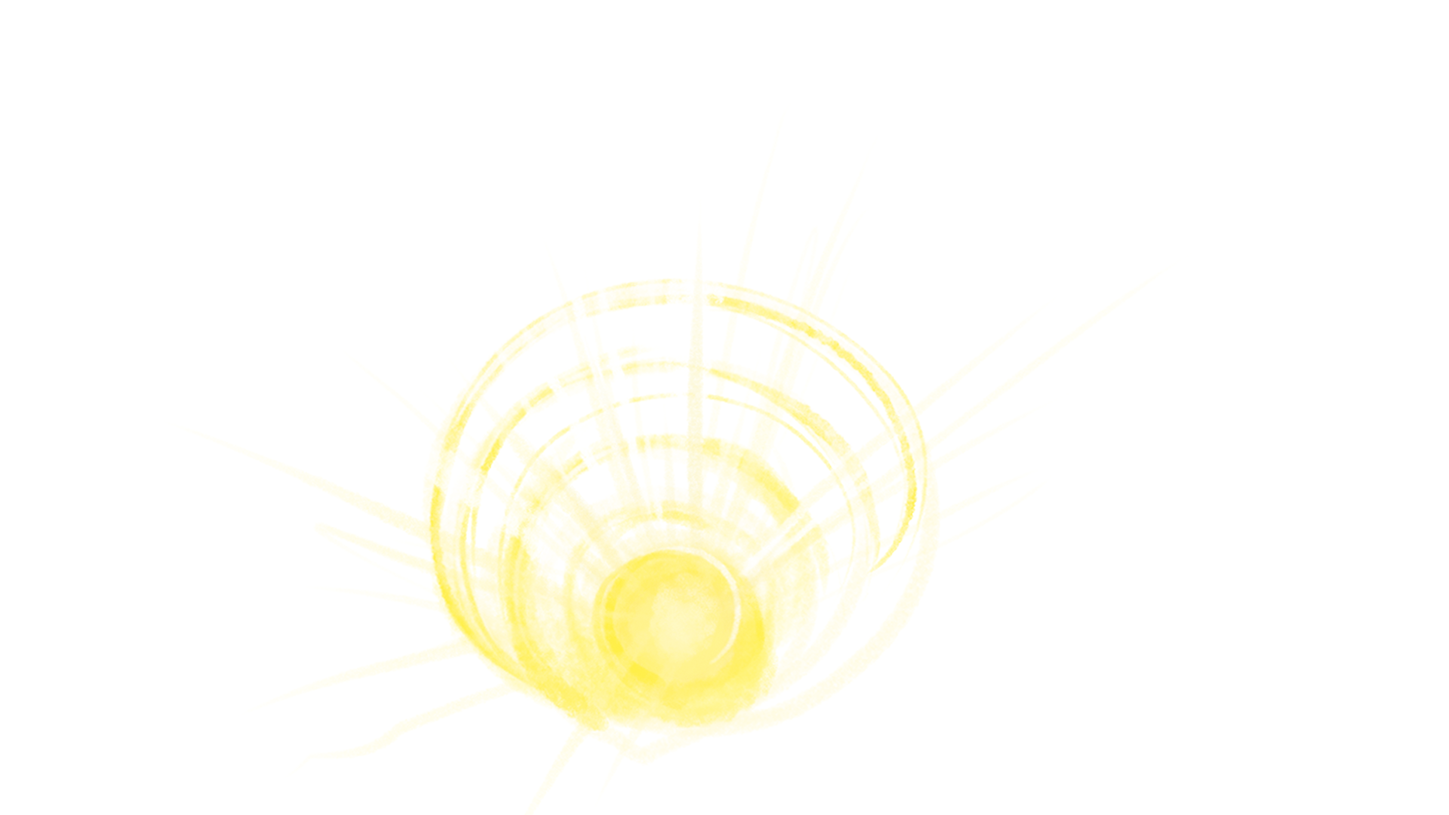
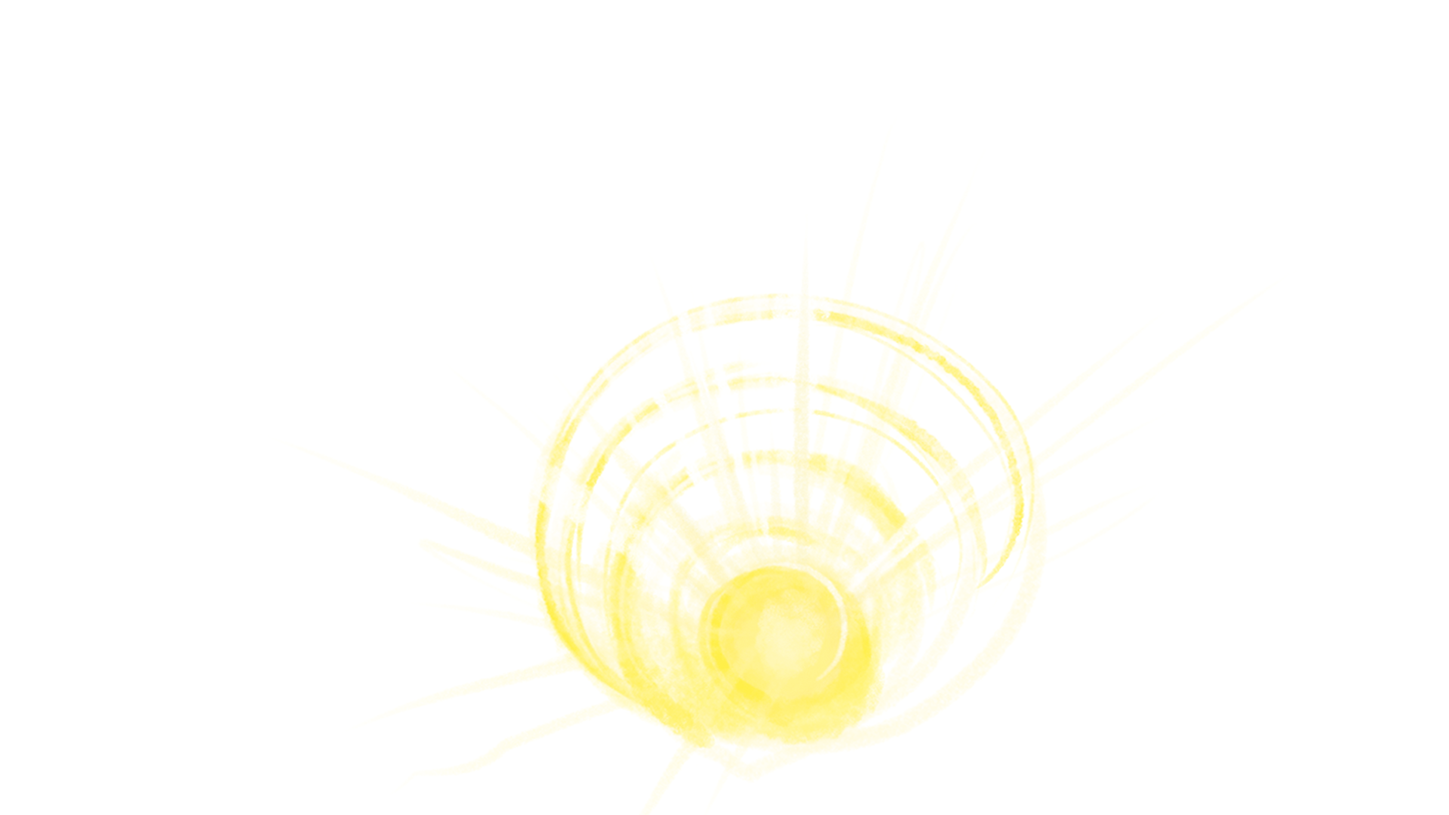
Add files via upload

Changed region(s): [[0.25, 0.3361, 0.7188, 0.9472]]

diff --git a/css/style.min.css b/css/style.min.css
@@ -1,1 +1,1 @@
-:root{--text-color:hsl(229, 38%, 57%);--heading-color:hsl(229, 38%, 40%)}*{-webkit-box-sizing:border-box;box-sizing:border-box;padding:0;margin:0;font-family:Karla;font-style:normal;border:none}body{-webkit-user-select:none;-moz-user-select:none;-ms-user-select:none;user-select:none}input{width:0;background:0 0}input:focus{outline:0}ul{list-style:none}button{background:0 0}h1,h2,h3,h4,h5,h6{font-weight:400}.slick-list{overflow:hidden;width:100%;height:100%}.slick-track{display:-webkit-box;display:-ms-flexbox;display:flex}.weather__search{margin:0 0 36px 0}.search__container{position:relative;max-width:1180px;margin:0 auto;padding:0 10px;z-index:100}.search__container .search__form{width:100%;min-height:67px;display:-webkit-box;display:-ms-flexbox;display:flex}.search__container::before{content:"";background:url(../img/search/loupe.svg) 0 0/100% no-repeat;position:absolute;width:2rem;min-height:67px;top:16px;left:45px;z-index:1000}.search__container .search__bar{background:-o-radial-gradient(100% 100%,177.01% 109.82%,hsla(227deg,63%,72%,.5) 0,rgba(194,193,243,.55) 51.46%,rgba(229,236,249,.19) 100%);background:radial-gradient(177.01% 109.82% at 100% 100%,hsla(227deg,63%,72%,.5) 0,rgba(194,193,243,.55) 51.46%,rgba(229,236,249,.19) 100%);-webkit-backdrop-filter:blur(10px);backdrop-filter:blur(10px);-webkit-box-flex:0;-ms-flex:0 1 980px;flex:0 1 980px;border-radius:20px;padding:0 20px 0 83px;font-size:2rem;font-weight:600;color:var(--heading-color)}.search__container .search__submit{background:-o-radial-gradient(100% 100%,177.01% 109.82%,hsla(227deg,63%,72%,.5) 0,rgba(194,193,243,.55) 51.46%,rgba(229,236,249,.19) 100%);background:radial-gradient(177.01% 109.82% at 100% 100%,hsla(227deg,63%,72%,.5) 0,rgba(194,193,243,.55) 51.46%,rgba(229,236,249,.19) 100%);-webkit-backdrop-filter:blur(5px);backdrop-filter:blur(5px);margin-left:45px;position:relative;border-radius:20px;z-index:100}.search__container .search__submit input{color:var(--text-color);width:100%;font-weight:600;font-size:42px;text-align:center;padding:9px}.weather__cards{height:100%}.cards__container{position:relative;max-width:1180px;height:100%;margin:0 auto;z-index:200}.cards__container .slick-list{padding-top:10px}.cards__container .cards__group{padding:0 10px;display:-webkit-box;display:-ms-flexbox;display:flex;-webkit-box-align:center;-ms-flex-align:center;align-items:center;-webkit-box-pack:center;-ms-flex-pack:center;justify-content:center}.cards__container .cards__group .card:last-child{margin:0}.card{position:relative;-webkit-transition:all .4s cubic-bezier(.46,.03,.52,.96);-o-transition:all .4s cubic-bezier(.46,.03,.52,.96);transition:all .4s cubic-bezier(.46,.03,.52,.96);background:-o-radial-gradient(100% 100%,177.01% 109.82%,hsla(227deg,63%,72%,.5) 0,rgba(194,193,243,.55) 51.46%,rgba(229,236,249,.19) 100%);background:radial-gradient(177.01% 109.82% at 100% 100%,hsla(227deg,63%,72%,.5) 0,rgba(194,193,243,.55) 51.46%,rgba(229,236,249,.19) 100%);-webkit-backdrop-filter:blur(10px);backdrop-filter:blur(10px);height:70vh;-webkit-box-flex:0;-ms-flex:0 1 100%;flex:0 1 100%;border-radius:20px;overflow:auto;margin:0 48px 0 0;color:var(--text-color);font-weight:500;-ms-overflow-style:none;scrollbar-width:none}.card ::-webkit-scrollbar{display:none}.card h3{font-weight:600}.card:hover{-webkit-transform:scale(1.025);-ms-transform:scale(1.025);transform:scale(1.025)}.card__head{display:-webkit-box;display:-ms-flexbox;display:flex;padding:20px 20px 0 20px;width:100%;-webkit-box-orient:vertical;-webkit-box-direction:normal;-ms-flex-direction:column;flex-direction:column}.card__heading{display:inline;width:100%;margin-bottom:20px;color:var(--heading-color);font-size:calc(11px + 1.3194444444vw)}.card__weather-main{display:-webkit-box;display:-ms-flexbox;display:flex}.weather__inf{-webkit-box-flex:0;-ms-flex:0 0 100px;flex:0 0 100px;margin-right:30px;font-weight:500;font-size:1rem;min-height:150px}.weather__inf .weather__text,.weather__inf .weather__time{text-align:center}.weather__inf .weather__icon{position:relative;margin:0 auto;width:64px;height:64px}.weather__inf .weather__icon .weather__temp{text-align:right;font-size:1.5rem;font-weight:600;position:absolute;bottom:0;right:0}.weather__inf .weather__icon img{position:absolute;width:100%;height:100%}.card__bottom{overflow:hidden;padding:0 20px 20px 20px}.card__weather-additional>div:not(div:last-child){margin-bottom:40px}.card__weather-additional .details__heading{color:var(--heading-color);margin-bottom:5px}.card__weather-additional .details__inf{display:-webkit-box;display:-ms-flexbox;display:flex;-webkit-box-orient:vertical;-webkit-box-direction:normal;-ms-flex-direction:column;flex-direction:column}.card__weather-additional .details__inf-item{display:-webkit-box;display:-ms-flexbox;display:flex}.card__weather-additional .details__inf-item li:first-child{font-weight:300}.card__weather-additional .details__inf-item li{-webkit-box-flex:0;-ms-flex:0 0 50%;flex:0 0 50%}.card__weather-additional .precipitation__heading{color:var(--heading-color);margin-bottom:5px}.card__weather-additional .precipitation__inf-item{-webkit-box-flex:0;-ms-flex:0 0 100px;flex:0 0 100px;text-align:center}.card__weather-additional .precipitation__icon{margin:5px auto;height:30px}.card__weather-additional .wind__inf-item{-webkit-box-flex:0;-ms-flex:0 0 100px;flex:0 0 100px;text-align:center}.card__weather-additional .wind__heading{color:var(--heading-color);margin-bottom:5px}.card__weather-additional .wind__icon{margin:5px auto;height:30px}.card__weather-additional .wind__text p:last-child{font-weight:600}.cards__container .active{-webkit-transition:all .4s cubic-bezier(.46,.03,.52,.96);-o-transition:all .4s cubic-bezier(.46,.03,.52,.96);transition:all .4s cubic-bezier(.46,.03,.52,.96);margin:0}.cards__container .unactive{-webkit-transition:all .4s cubic-bezier(.46,.03,.52,.96);-o-transition:all .4s cubic-bezier(.46,.03,.52,.96);transition:all .4s cubic-bezier(.46,.03,.52,.96);visibility:hidden;opacity:0;-webkit-box-flex:0;-ms-flex:0 1 0px;flex:0 1 0;margin:0}@-webkit-keyframes slide-app{0%{-webkit-transform:translateY(100%);transform:translateY(100%);visibility:hidden;opacity:0}100%{-webkit-transform:translateY(0);transform:translateY(0);visibility:visible;opacity:1}}@keyframes slide-app{0%{-webkit-transform:translateY(100%);transform:translateY(100%);visibility:hidden;opacity:0}100%{-webkit-transform:translateY(0);transform:translateY(0);visibility:visible;opacity:1}}.wrapper{overflow:hidden;max-width:100%;min-height:200vh;position:relative}.screen{position:absolute;width:100%;height:100vh}.screen img{pointer-events:none}.first__screen{top:0;left:0}.second__screen{bottom:0;left:0}.screen__background{position:absolute;left:0;bottom:0;width:100%;height:100%}.first__screen-img-container img{position:absolute;left:0;bottom:0;width:100%;min-height:540px;-o-object-fit:cover;object-fit:cover}.second__screen-img-container img{position:absolute;left:0;top:0;width:100%;min-height:540px;-o-object-fit:cover;object-fit:cover}.screen__background{z-index:0}.first__screen .screen__sun{left:90px;bottom:-80px;z-index:7}.first__screen .screen__fifth-plan-cloud{z-index:5;-webkit-animation:shake1 4s ease-in-out infinite;animation:shake1 4s ease-in-out infinite}.first__screen .screen__fourth-plan-cloud{z-index:10;-webkit-animation:shake1 6s linear infinite;animation:shake1 6s linear infinite}.first__screen .screen__third-plan-cloud{z-index:15;-webkit-animation:shake1 4s ease-in-out infinite;animation:shake1 4s ease-in-out infinite}.first__screen .screen__second-plan-cloud{z-index:20;-webkit-animation:shake2 6s linear infinite;animation:shake2 6s linear infinite}.first__screen .screen__first-plan-cloud{z-index:25;-webkit-animation:shake2 4s ease-in-out infinite;animation:shake2 4s ease-in-out infinite}.second__screen .screen__fifth-plan-cloud{z-index:5;-webkit-animation:shake3 4s ease-in-out infinite;animation:shake3 4s ease-in-out infinite}.second__screen .screen__fourth-plan-cloud{z-index:10;-webkit-animation:shake3 6s linear infinite;animation:shake3 6s linear infinite}.second__screen .screen__third-plan-cloud{z-index:15;-webkit-animation:shake3 4s ease-in-out infinite;animation:shake3 4s ease-in-out infinite}.second__screen .screen__second-plan-cloud{z-index:20;-webkit-animation:shake4 6s linear infinite;animation:shake4 6s linear infinite}.second__screen .screen__first-plan-cloud{z-index:25;-webkit-animation:shake4 4s ease-in-out infinite;animation:shake4 4s ease-in-out infinite}.second__screen .condition img{position:absolute;pointer-events:none;width:100%;height:100%;-o-object-fit:cover;object-fit:cover}.second__screen .environment img{position:absolute;pointer-events:none;width:100%;height:100%;-o-object-fit:cover;object-fit:cover}@-webkit-keyframes shake1{0%,100%{-webkit-transform:translate(0,-5px);transform:translate(0,-5px)}50%{-webkit-transform:translate(-5px,5px) scaleY(104%);transform:translate(-5px,5px) scaleY(104%)}}@keyframes shake1{0%,100%{-webkit-transform:translate(0,-5px);transform:translate(0,-5px)}50%{-webkit-transform:translate(-5px,5px) scaleY(104%);transform:translate(-5px,5px) scaleY(104%)}}@-webkit-keyframes shake2{0%,100%{-webkit-transform:translate(0,-5px);transform:translate(0,-5px)}50%{-webkit-transform:translate(5px,5px) scaleY(104%);transform:translate(5px,5px) scaleY(104%)}}@keyframes shake2{0%,100%{-webkit-transform:translate(0,-5px);transform:translate(0,-5px)}50%{-webkit-transform:translate(5px,5px) scaleY(104%);transform:translate(5px,5px) scaleY(104%)}}@-webkit-keyframes shake3{0%,100%{-webkit-transform:translate(0,-5px);transform:translate(0,-5px)}50%{-webkit-transform:translate(-5px,5px) scaleY(96%);transform:translate(-5px,5px) scaleY(96%)}}@keyframes shake3{0%,100%{-webkit-transform:translate(0,-5px);transform:translate(0,-5px)}50%{-webkit-transform:translate(-5px,5px) scaleY(96%);transform:translate(-5px,5px) scaleY(96%)}}@-webkit-keyframes shake4{0%,100%{-webkit-transform:translate(0,-5px);transform:translate(0,-5px)}50%{-webkit-transform:translate(5px,5px) scaleY(96%);transform:translate(5px,5px) scaleY(96%)}}@keyframes shake4{0%,100%{-webkit-transform:translate(0,-5px);transform:translate(0,-5px)}50%{-webkit-transform:translate(5px,5px) scaleY(96%);transform:translate(5px,5px) scaleY(96%)}}.first__screen .screen-weather{position:absolute;display:-webkit-box;display:-ms-flexbox;display:flex;width:100%;-webkit-box-pack:justify;-ms-flex-pack:justify;justify-content:space-between;-webkit-box-align:baseline;-ms-flex-align:baseline;align-items:baseline;color:hsl(229deg,38%,57%);padding-left:calc(10px + 27.2 * (100vw - 320px)/ 1440);padding-right:calc(10px + 27.2 * (100vw - 320px)/ 1440);padding-top:calc(20px + 34 * (100vw - 320px)/ 1440);top:0;right:0;font-weight:500;z-index:24;text-align:left}.first__screen .weather__place{padding-right:40px}.first__screen .weather__place p:first-child{color:hsl(229deg,38%,40%);font-size:calc(24px + 3.4722222222vw)}.first__screen .weather__place p:last-child{font-size:calc(20px + 1.3888888889vw)}.first__screen .weather__inf p:first-child{color:hsl(229deg,38%,40%);line-height:calc(80px + 2.7777777778vw);font-size:calc(70px + 4.8611111111vw)}.first__screen .weather__inf p:last-child{font-size:calc(25px + 1.7361111111vw)}.second__screen .screen-weather{padding-top:70px;height:100%}@media (max-width:767px){.search__submit{display:none}.card__weather-main li:nth-child(1){font-size:calc(45px + 32.3 * (100vw - 320px)/ 1440)}.card__weather-main li:nth-child(2){font-size:calc(21px + 32.3 * (100vw - 320px)/ 1440)}.weather__place p:first-child{font-size:calc(24px + 85 * (100vw - 320px)/ 1440)}.weather__place p:last-child{font-size:calc(20px + 34 * (100vw - 320px)/ 1440)}.weather__inf p:first-child{line-height:calc(80px + 68 * (100vw - 320px)/ 1440);font-size:calc(70px + 119 * (100vw - 320px)/ 1440)}.weather__inf p:last-child{font-size:calc(25px + 42.5 * (100vw - 320px)/ 1440)}}
+@charset "UTF-8";:root{--text-color:hsl(229, 38%, 57%);--heading-color:hsl(229, 38%, 40%)}*{-webkit-box-sizing:border-box;box-sizing:border-box;padding:0;margin:0;font-family:Karla;font-style:normal;border:none}body{-webkit-user-select:none;-moz-user-select:none;-ms-user-select:none;user-select:none}input{width:0;background:0 0}input:focus{outline:0}ul{list-style:none}button{background:0 0}h1,h2,h3,h4,h5,h6{font-weight:400}.slick-list{overflow:hidden;width:100%;height:100%}.slick-track{display:-webkit-box;display:-ms-flexbox;display:flex}.search__container{position:relative;max-width:1180px;margin:0 auto;padding:0 10px;z-index:100}.search__container .search__form{width:100%;min-height:67px;display:-webkit-box;display:-ms-flexbox;display:flex}.search__container::before{content:"";background:url(../img/search/loupe.svg) 0 0/100% no-repeat;position:absolute;width:2rem;min-height:67px;top:16px;left:45px;z-index:1000}.search__container .search__bar{background:-o-radial-gradient(100% 100%,177.01% 109.82%,hsla(227deg,63%,72%,.5) 0,rgba(194,193,243,.55) 51.46%,rgba(229,236,249,.19) 100%);background:radial-gradient(177.01% 109.82% at 100% 100%,hsla(227deg,63%,72%,.5) 0,rgba(194,193,243,.55) 51.46%,rgba(229,236,249,.19) 100%);-webkit-backdrop-filter:blur(10px);backdrop-filter:blur(10px);-webkit-box-flex:0;-ms-flex:0 1 980px;flex:0 1 980px;border-radius:20px;padding:0 20px 0 83px;font-size:2rem;font-weight:600;color:var(--heading-color)}.search__container .search__submit{background:-o-radial-gradient(100% 100%,177.01% 109.82%,hsla(227deg,63%,72%,.5) 0,rgba(194,193,243,.55) 51.46%,rgba(229,236,249,.19) 100%);background:radial-gradient(177.01% 109.82% at 100% 100%,hsla(227deg,63%,72%,.5) 0,rgba(194,193,243,.55) 51.46%,rgba(229,236,249,.19) 100%);-webkit-backdrop-filter:blur(5px);backdrop-filter:blur(5px);margin-left:45px;position:relative;border-radius:20px;z-index:100}.search__container .search__submit input{color:var(--text-color);width:100%;font-weight:600;font-size:42px;text-align:center;padding:9px}.weather__cards{height:100%}.cards__container{position:relative;max-width:1180px;margin:0 auto;z-index:200;height:100%}.cards__container>.slick-list{height:100%;padding-top:20px}.cards__container .slick-track{height:100%}.cards__container .cards__group{padding:0 10px;display:-webkit-box;display:-ms-flexbox;display:flex;-webkit-box-align:start;-ms-flex-align:start;align-items:flex-start;-webkit-box-pack:center;-ms-flex-pack:center;justify-content:center}.cards__container .cards__group .card:last-child{margin:0}.card{position:relative;-webkit-transition:all .4s cubic-bezier(.46,.03,.52,.96);-o-transition:all .4s cubic-bezier(.46,.03,.52,.96);transition:all .4s cubic-bezier(.46,.03,.52,.96);background:-o-radial-gradient(100% 100%,177.01% 109.82%,hsla(227deg,63%,72%,.5) 0,rgba(194,193,243,.55) 51.46%,rgba(229,236,249,.19) 100%);background:radial-gradient(177.01% 109.82% at 100% 100%,hsla(227deg,63%,72%,.5) 0,rgba(194,193,243,.55) 51.46%,rgba(229,236,249,.19) 100%);-webkit-backdrop-filter:blur(10px);backdrop-filter:blur(10px);-webkit-box-flex:0;-ms-flex:0 1 100%;flex:0 1 100%;height:calc(100% - 87px);border-radius:20px;overflow:auto;margin:0 28px 0 0;color:var(--text-color);font-weight:500;-ms-overflow-style:none;scrollbar-width:none}.card ::-webkit-scrollbar{display:none}.card h3{font-weight:600}.card:hover{-webkit-transform:scale(1.015);-ms-transform:scale(1.015);transform:scale(1.015)}.card::after{content:"";position:relative;bottom:0;width:100%;height:50px;background:-o-radial-gradient(100% 100%,177.01% 109.82%,hsla(227deg,63%,72%,.5) 0,rgba(194,193,243,.55) 51.46%,rgba(229,236,249,.19) 100%);background:radial-gradient(177.01% 109.82% at 100% 100%,hsla(227deg,63%,72%,.5) 0,rgba(194,193,243,.55) 51.46%,rgba(229,236,249,.19) 100%)}.card__head{display:-webkit-box;display:-ms-flexbox;display:flex;padding:20px 20px 0 20px;width:100%;-webkit-box-orient:vertical;-webkit-box-direction:normal;-ms-flex-direction:column;flex-direction:column}.card__heading{position:relative;display:inline;width:100%;margin-bottom:20px;color:var(--heading-color);font-size:30px}.card__weather-main{max-width:100%}.weather__inf{margin-right:30px;font-weight:500;font-size:1rem;min-height:150px}.weather__inf .weather__text,.weather__inf .weather__time{text-align:center}.weather__inf .weather__icon{position:relative;margin:0 auto;width:64px;height:64px}.weather__inf .weather__icon .weather__temp{text-align:right;font-size:1.5rem;font-weight:600;position:absolute;bottom:0;right:0}.weather__inf .weather__icon img{position:absolute;width:100%;height:100%}.card__bottom{overflow:hidden;padding:0 20px 20px 20px}.card__weather-additional>div:not(div:last-child){margin-bottom:40px}.card__weather-additional .details__heading{color:var(--heading-color);margin-bottom:5px}.card__weather-additional .details__inf{display:-webkit-box;display:-ms-flexbox;display:flex;-webkit-box-orient:vertical;-webkit-box-direction:normal;-ms-flex-direction:column;flex-direction:column}.card__weather-additional .details__inf-item{display:-webkit-box;display:-ms-flexbox;display:flex}.card__weather-additional .details__inf-item li:first-child{font-weight:300}.card__weather-additional .details__inf-item li{-webkit-box-flex:0;-ms-flex:0 0 50%;flex:0 0 50%}.card__weather-additional .precipitation__heading{color:var(--heading-color);margin-bottom:5px}.card__weather-additional .precipitation__inf-item{-webkit-box-flex:0;-ms-flex:0 0 100px;flex:0 0 100px;text-align:center}.card__weather-additional .precipitation__icon{margin:5px auto;height:30px}.card__weather-additional .wind__inf-item{-webkit-box-flex:0;-ms-flex:0 0 100px;flex:0 0 100px;text-align:center}.card__weather-additional .wind__heading{color:var(--heading-color);margin-bottom:5px}.card__weather-additional .wind__icon{margin:5px auto;height:30px}.card__weather-additional .wind__text p:last-child{font-weight:600}@-webkit-keyframes slide-app{0%{-webkit-transform:translateY(100%);transform:translateY(100%);visibility:hidden;opacity:0}100%{-webkit-transform:translateY(0);transform:translateY(0);visibility:visible;opacity:1}}@keyframes slide-app{0%{-webkit-transform:translateY(100%);transform:translateY(100%);visibility:hidden;opacity:0}100%{-webkit-transform:translateY(0);transform:translateY(0);visibility:visible;opacity:1}}.wrapper{overflow:hidden;max-width:100%;min-height:200vh;position:relative}.screen{position:absolute;width:100%;height:100vh}.screen img{pointer-events:none}.first__screen{top:0;left:0}.second__screen{bottom:0;left:0}.screen__background{position:absolute;left:0;bottom:0;width:100%;height:100%}.first__screen-img-container img{position:absolute;left:0;bottom:0;width:100%;min-height:540px;-o-object-fit:cover;object-fit:cover}.second__screen-img-container img{position:absolute;left:0;top:0;width:100%;min-height:540px;-o-object-fit:cover;object-fit:cover}.screen__background{z-index:0}.first__screen .screen__sun{z-index:7}.first__screen .screen__fifth-plan-cloud{z-index:5;-webkit-animation:shake1 4s ease-in-out infinite;animation:shake1 4s ease-in-out infinite}.first__screen .screen__fourth-plan-cloud{z-index:10;-webkit-animation:shake1 6s linear infinite;animation:shake1 6s linear infinite}.first__screen .screen__third-plan-cloud{z-index:15;-webkit-animation:shake1 4s ease-in-out infinite;animation:shake1 4s ease-in-out infinite}.first__screen .screen__second-plan-cloud{z-index:20;-webkit-animation:shake2 6s linear infinite;animation:shake2 6s linear infinite}.first__screen .screen__first-plan-cloud{z-index:25;-webkit-animation:shake2 4s ease-in-out infinite;animation:shake2 4s ease-in-out infinite}.second__screen .screen__fifth-plan-cloud{z-index:5;-webkit-animation:shake3 4s ease-in-out infinite;animation:shake3 4s ease-in-out infinite}.second__screen .screen__fourth-plan-cloud{z-index:10;-webkit-animation:shake3 6s linear infinite;animation:shake3 6s linear infinite}.second__screen .screen__third-plan-cloud{z-index:15;-webkit-animation:shake3 4s ease-in-out infinite;animation:shake3 4s ease-in-out infinite}.second__screen .screen__second-plan-cloud{z-index:20;-webkit-animation:shake4 6s linear infinite;animation:shake4 6s linear infinite}.second__screen .screen__first-plan-cloud{z-index:25;-webkit-animation:shake4 4s ease-in-out infinite;animation:shake4 4s ease-in-out infinite}.second__screen .condition img{position:absolute;pointer-events:none;width:100%;height:100%;-o-object-fit:cover;object-fit:cover}.second__screen .environment img{position:absolute;pointer-events:none;width:100%;height:100%;-o-object-fit:cover;object-fit:cover}@-webkit-keyframes shake1{0%,100%{-webkit-transform:translate(0,-5px);transform:translate(0,-5px)}50%{-webkit-transform:translate(-5px,5px) scaleY(104%);transform:translate(-5px,5px) scaleY(104%)}}@keyframes shake1{0%,100%{-webkit-transform:translate(0,-5px);transform:translate(0,-5px)}50%{-webkit-transform:translate(-5px,5px) scaleY(104%);transform:translate(-5px,5px) scaleY(104%)}}@-webkit-keyframes shake2{0%,100%{-webkit-transform:translate(0,-5px);transform:translate(0,-5px)}50%{-webkit-transform:translate(5px,5px) scaleY(104%);transform:translate(5px,5px) scaleY(104%)}}@keyframes shake2{0%,100%{-webkit-transform:translate(0,-5px);transform:translate(0,-5px)}50%{-webkit-transform:translate(5px,5px) scaleY(104%);transform:translate(5px,5px) scaleY(104%)}}@-webkit-keyframes shake3{0%,100%{-webkit-transform:translate(0,-5px);transform:translate(0,-5px)}50%{-webkit-transform:translate(-5px,5px) scaleY(96%);transform:translate(-5px,5px) scaleY(96%)}}@keyframes shake3{0%,100%{-webkit-transform:translate(0,-5px);transform:translate(0,-5px)}50%{-webkit-transform:translate(-5px,5px) scaleY(96%);transform:translate(-5px,5px) scaleY(96%)}}@-webkit-keyframes shake4{0%,100%{-webkit-transform:translate(0,-5px);transform:translate(0,-5px)}50%{-webkit-transform:translate(5px,5px) scaleY(96%);transform:translate(5px,5px) scaleY(96%)}}@keyframes shake4{0%,100%{-webkit-transform:translate(0,-5px);transform:translate(0,-5px)}50%{-webkit-transform:translate(5px,5px) scaleY(96%);transform:translate(5px,5px) scaleY(96%)}}.first__screen .screen-weather{position:absolute;display:-webkit-box;display:-ms-flexbox;display:flex;width:100%;-webkit-box-pack:justify;-ms-flex-pack:justify;justify-content:space-between;-webkit-box-align:baseline;-ms-flex-align:baseline;align-items:baseline;color:hsl(229deg,38%,57%);padding-left:calc(10px + 27.2 * (100vw - 320px)/ 1440);padding-right:calc(10px + 2.2222222222vw);padding-top:calc(20px + 34 * (100vw - 320px)/ 1440);top:0;right:0;font-weight:500;z-index:24;text-align:left}.first__screen .weather__place{padding-right:40px}.first__screen .weather__place p:first-child{color:hsl(229deg,38%,40%);font-size:calc(24px + 3.4722222222vw)}.first__screen .weather__place p:last-child{font-size:calc(20px + 1.3888888889vw)}.first__screen .weather__inf p:first-child{color:hsl(229deg,38%,40%);line-height:calc(80px + 2.7777777778vw);font-size:calc(70px + 4.8611111111vw)}.first__screen .weather__inf p:last-child{font-size:calc(25px + 1.7361111111vw)}.second__screen .screen-weather{height:100%;padding-top:5vh}@media (min-width:576px){.card__heading::after{content:"···";position:absolute;top:50%;-webkit-transform:translateY(-50%);-ms-transform:translateY(-50%);transform:translateY(-50%);right:5px;font-size:50px}.cards__container .active{-webkit-transition:all .4s cubic-bezier(.46,.03,.52,.96);-o-transition:all .4s cubic-bezier(.46,.03,.52,.96);transition:all .4s cubic-bezier(.46,.03,.52,.96);margin:0}.cards__container .unactive{-webkit-transition:all .4s cubic-bezier(.46,.03,.52,.96);-o-transition:all .4s cubic-bezier(.46,.03,.52,.96);transition:all .4s cubic-bezier(.46,.03,.52,.96);visibility:hidden;opacity:0;-webkit-box-flex:0;-ms-flex:0 1 0px;flex:0 1 0;margin:0}}@media (max-width:767px){.search__submit{display:none}.card__weather-main li:nth-child(1){font-size:calc(45px + 32.3 * (100vw - 320px)/ 1440)}.card__weather-main li:nth-child(2){font-size:calc(21px + 32.3 * (100vw - 320px)/ 1440)}.weather__place p:first-child{font-size:calc(24px + 85 * (100vw - 320px)/ 1440)}.weather__place p:last-child{font-size:calc(20px + 34 * (100vw - 320px)/ 1440)}.weather__inf p:first-child{line-height:calc(80px + 68 * (100vw - 320px)/ 1440);font-size:calc(70px + 119 * (100vw - 320px)/ 1440)}.weather__inf p:last-child{font-size:calc(25px + 42.5 * (100vw - 320px)/ 1440)}}

diff --git a/js/app.min.js b/js/app.min.js
@@ -1,1 +1,1 @@
[2 lines of base64/hex data omitted]

diff --git a/css/style.css b/css/style.css
@@ -1,3 +1,5 @@
+@charset "UTF-8";
+
 :root {
   --text-color: hsl(229, 38%, 57%);
   --heading-color: hsl(229, 38%, 40%);
@@ -56,10 +58,6 @@ h6 {
   display: -webkit-box;
   display: -ms-flexbox;
   display: flex;
-}
-
-.weather__search {
-  margin: 0px 0px 36px 0px;
 }
 
 .search__container {
@@ -131,13 +129,18 @@ h6 {
 .cards__container {
   position: relative;
   max-width: 1180px;
-  height: 100%;
   margin: 0px auto;
   z-index: 200;
+  height: 100%;
 }
 
-.cards__container .slick-list {
-  padding-top: 10px;
+.cards__container > .slick-list {
+  height: 100%;
+  padding-top: 20px;
+}
+
+.cards__container .slick-track {
+  height: 100%;
 }
 
 .cards__container .cards__group {
@@ -145,9 +148,9 @@ h6 {
   display: -webkit-box;
   display: -ms-flexbox;
   display: flex;
-  -webkit-box-align: center;
-      -ms-flex-align: center;
-          align-items: center;
+  -webkit-box-align: start;
+      -ms-flex-align: start;
+          align-items: flex-start;
   -webkit-box-pack: center;
       -ms-flex-pack: center;
           justify-content: center;
@@ -166,13 +169,13 @@ h6 {
   background: radial-gradient(177.01% 109.82% at 100% 100%, hsla(227deg, 63%, 72%, 0.5) 0%, rgba(194, 193, 243, 0.55) 51.46%, rgba(229, 236, 249, 0.19) 100%);
   -webkit-backdrop-filter: blur(10px);
           backdrop-filter: blur(10px);
-  height: 70vh;
   -webkit-box-flex: 0;
       -ms-flex: 0 1 100%;
           flex: 0 1 100%;
+  height: calc(100% - 87px);
   border-radius: 20px;
   overflow: auto;
-  margin: 0px 48px 0px 0px;
+  margin: 0px 28px 0px 0px;
   color: var(--text-color);
   font-weight: 500;
   -ms-overflow-style: none;
@@ -188,9 +191,19 @@ h6 {
 }
 
 .card:hover {
-  -webkit-transform: scale(1.025);
-      -ms-transform: scale(1.025);
-          transform: scale(1.025);
+  -webkit-transform: scale(1.015);
+      -ms-transform: scale(1.015);
+          transform: scale(1.015);
+}
+
+.card::after {
+  content: "";
+  position: relative;
+  bottom: 0;
+  width: 100%;
+  height: 50px;
+  background: -o-radial-gradient(100% 100%, 177.01% 109.82%, hsla(227deg, 63%, 72%, 0.5) 0%, rgba(194, 193, 243, 0.55) 51.46%, rgba(229, 236, 249, 0.19) 100%);
+  background: radial-gradient(177.01% 109.82% at 100% 100%, hsla(227deg, 63%, 72%, 0.5) 0%, rgba(194, 193, 243, 0.55) 51.46%, rgba(229, 236, 249, 0.19) 100%);
 }
 
 .card__head {
@@ -206,23 +219,19 @@ h6 {
 }
 
 .card__heading {
+  position: relative;
   display: inline;
   width: 100%;
   margin-bottom: 20px;
   color: var(--heading-color);
-  font-size: calc(11px + 1.3194444444vw);
+  font-size: 30px;
 }
 
 .card__weather-main {
-  display: -webkit-box;
-  display: -ms-flexbox;
-  display: flex;
+  max-width: 100%;
 }
 
 .weather__inf {
-  -webkit-box-flex: 0;
-      -ms-flex: 0 0 100px;
-          flex: 0 0 100px;
   margin-right: 30px;
   font-weight: 500;
   font-size: 1rem;
@@ -334,25 +343,6 @@ h6 {
   font-weight: 600;
 }
 
-.cards__container .active {
-  -webkit-transition: all 0.4s cubic-bezier(0.46, 0.03, 0.52, 0.96);
-  -o-transition: all 0.4s cubic-bezier(0.46, 0.03, 0.52, 0.96);
-  transition: all 0.4s cubic-bezier(0.46, 0.03, 0.52, 0.96);
-  margin: 0;
-}
-
-.cards__container .unactive {
-  -webkit-transition: all 0.4s cubic-bezier(0.46, 0.03, 0.52, 0.96);
-  -o-transition: all 0.4s cubic-bezier(0.46, 0.03, 0.52, 0.96);
-  transition: all 0.4s cubic-bezier(0.46, 0.03, 0.52, 0.96);
-  visibility: hidden;
-  opacity: 0;
-  -webkit-box-flex: 0;
-      -ms-flex: 0 1 0px;
-          flex: 0 1 0;
-  margin: 0;
-}
-
 @-webkit-keyframes slide-app {
   0% {
     -webkit-transform: translateY(100%);
@@ -445,8 +435,6 @@ h6 {
 }
 
 .first__screen .screen__sun {
-  left: 90px;
-  bottom: -80px;
   z-index: 7;
 }
 
@@ -638,7 +626,7 @@ h6 {
           align-items: baseline;
   color: hsl(229deg, 38%, 57%);
   padding-left: calc(10px + 27.2 * (100vw - 320px) / 1440);
-  padding-right: calc(10px + 27.2 * (100vw - 320px) / 1440);
+  padding-right: calc(10px + 2.2222222222vw);
   padding-top: calc(20px + 34 * (100vw - 320px) / 1440);
   top: 0;
   right: 0;
@@ -671,8 +659,40 @@ h6 {
 }
 
 .second__screen .screen-weather {
-  padding-top: 70px;
   height: 100%;
+  padding-top: 5vh;
+}
+
+@media (min-width: 576px) {
+  .card__heading::after {
+    content: "···";
+    position: absolute;
+    top: 50%;
+    -webkit-transform: translateY(-50%);
+        -ms-transform: translateY(-50%);
+            transform: translateY(-50%);
+    right: 5px;
+    font-size: 50px;
+  }
+
+  .cards__container .active {
+    -webkit-transition: all 0.4s cubic-bezier(0.46, 0.03, 0.52, 0.96);
+    -o-transition: all 0.4s cubic-bezier(0.46, 0.03, 0.52, 0.96);
+    transition: all 0.4s cubic-bezier(0.46, 0.03, 0.52, 0.96);
+    margin: 0;
+  }
+
+  .cards__container .unactive {
+    -webkit-transition: all 0.4s cubic-bezier(0.46, 0.03, 0.52, 0.96);
+    -o-transition: all 0.4s cubic-bezier(0.46, 0.03, 0.52, 0.96);
+    transition: all 0.4s cubic-bezier(0.46, 0.03, 0.52, 0.96);
+    visibility: hidden;
+    opacity: 0;
+    -webkit-box-flex: 0;
+        -ms-flex: 0 1 0px;
+            flex: 0 1 0;
+    margin: 0;
+  }
 }
 
 @media (max-width: 767px) {

diff --git a/index.html b/index.html
@@ -5,9 +5,9 @@
     <meta http-equiv="X-UA-Compatible" content="IE=edge">
     <meta name="viewport" content="width=device-width, initial-scale=1.0">
     <link
-        href="https://fonts.googleapis.com/css?family=Karla:200,300,regular,500,600,700,800,200italic,300italic,italic,500italic,600italic,700italic,800italic&_v=20220730175849"
+        href="https://fonts.googleapis.com/css?family=Karla:200,300,regular,500,600,700,800,200italic,300italic,italic,500italic,600italic,700italic,800italic&_v=20220731174241"
         rel="stylesheet" />
-    <link rel="stylesheet" href="css/style.min.css?_v=20220730175849">
+    <link rel="stylesheet" href="css/style.min.css?_v=20220731174241">
     <title>Document</title>
 </head>
 <body>
@@ -362,8 +362,8 @@
             </div>
         </div>
     </main>
-    <script src="//code.jquery.com/jquery-1.11.0.min.js?_v=20220730175849"></script>
-    <script type="text/javascript" src="//cdn.jsdelivr.net/npm/slick-carousel@1.8.1/slick/slick.min.js?_v=20220730175849"></script>
-    <script src="js/app.min.js?_v=20220730175849"></script>
+    <script src="//code.jquery.com/jquery-1.11.0.min.js?_v=20220731174241"></script>
+    <script type="text/javascript" src="//cdn.jsdelivr.net/npm/slick-carousel@1.8.1/slick/slick.min.js?_v=20220731174241"></script>
+    <script src="js/app.min.js?_v=20220731174241"></script>
 </body>
 </html>
